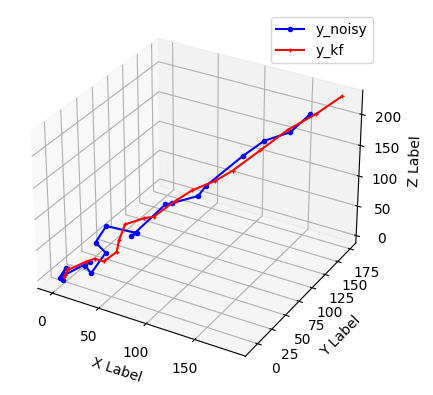
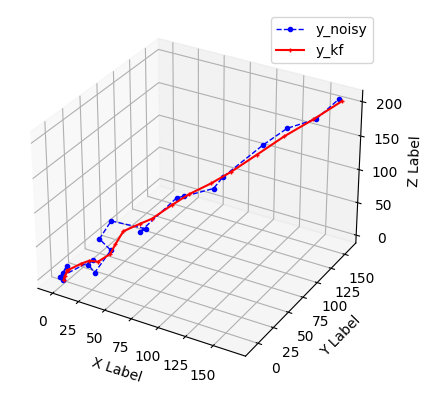
finished hw6

diff --git a/hw6/q2.py b/hw6/q2.py
@@ -5,7 +5,7 @@
 import numpy as np
 import matplotlib.pyplot as plt
 # ------------------------------------------------------------------------------
-np.set_printoptions(suppress=True)
+np.set_printoptions(suppress=True, precision=5)
 
 # ------------------------------------------------------------------------------
 # q2.c
@@ -19,7 +19,7 @@ dt = 1
 M = 0.01
 u = 0.01 * np.ones(shape=(3, 1), dtype=np.float32)
 P0 = np.diag([50, 50, 50, 10, 10, 10])
-Rv = 10e-5 * np.diag([1, 1, 1])
+Rv = 1e-5 * np.diag([1, 1, 1])
 Rw = 50 * np.diag([1, 1, 1])
 print(f"\n*** Parameters:")
 print(f"dt: {dt}\nM: {M}\nu:\n{u}\nP0:\n{P0}\nRv:\n{Rv}\nRw:\n{Rw}")
@@ -27,56 +27,113 @@ print(f"dt: {dt}\nM: {M}\nu:\n{u}\nP0:\n{P0}\nRv:\n{Rv}\nRw:\n{Rw}")
 print("\n*** State Space Representation:")
 A = np.identity(6, dtype=np.float32)
 A[0, 3] = A[1, 4] = A[2, 5] = dt
+
 B = np.zeros(shape=(6, 3), dtype=np.float32)
+B[0, 0] = B[1, 1] = B[2, 2] = 0.5 * dt/M
 B[3, 0] = B[4, 1] = B[5, 2] = dt/M
+
 C = np.zeros(shape=(3, 6), dtype=np.float32)
 C[0, 0] = C[1, 1] = C[2, 2] = 1
 print(f"A:\n{A}\nB:\n{B}\nC:\n{C}")
 
 # kalman filter 
 print("\n*** Kalman filter:")
-P_list = np.zeros(shape=(len(ydata)+1, 6, 6))
-P_list[0, :, :] = P0
+# initial covariance
+Pprior = np.zeros(shape=(len(ydata)+1, 6, 6))
+Pprior[0, :, :] = P0
+
+Ppost = np.zeros(shape=(len(ydata)+1, 6, 6))
+Ppost[0, :, :] = P0
+
+# initial state
 x = np.zeros(shape=(6, 1), dtype=np.float32)
-x_list = np.zeros(shape=(len(ydata)+1, 6, 1))
-x_list[0, :, :] = x
+x[0] = ydata[0, 0]
+x[1] = ydata[0, 1]
+x[2] = ydata[0, 2]
+
+Xprior = np.zeros(shape=(len(ydata)+1, 6, 1))
+Xprior[0, :, :] = x
+
+Xpost = np.zeros(shape=(len(ydata)+1, 6, 1))
+Xpost[0, :, :] = x
 
 y_kf = np.zeros(shape=ydata.shape, dtype=np.float32)
-for i, ym in enumerate(ydata):
-    P = P_list[i]
-    print(f"\nym[{i}]: {ym}")
-    # compute observer gain L -- AM p. 215
-    # L = A P_k C^{T} (R_w + C P_k C^{T})^{-1}
-    L = A @ P @ C.T @ np.linalg.inv((Rw + C @ P @ C.T))
-    print(f"observer gain L:\n{L}")
-    # compute new covariance matrix P -- AM p. 215
-    # P = (A - LC) P_k (A - LC)^{T} + F R_v F^{T} + L R_w L^{T}
-    # here F = B
-    A_LC = A - L @ C
-    P = A_LC @ P @ A_LC.T + B @ Rv @ B.T + L @ Rw @ L.T
-    P_list[i+1] = P
-    print(f"covariance matrix P:\n{P}")
-    # compute new x as a Luenberger observer
-    # x = Ax^ + Bu + L(y - Cx^)
-    # diff between observer prediction and measured output
-    ym = ym.reshape(3, 1)
-    err = ym - C @ x
-    diff = L @ (err) 
+I = np.identity(6)
+
+luenberger = False
     
-    # estimate state
-    x = A @ x + B @ u + diff
-    x_list[i+1] = x
-    print(f"x[{i}]:\n{x}")
-    y_kf[i, :] = (C @ x).reshape(3)
-    print(f"y[{i}]:\n{C @ x}")
-    
-    print(f"err:\n{err}")
+if luenberger:
+    P_list = np.zeros(shape=(len(ydata)+1, 6, 6))
+    P_list[0, :, :] = P0
+   
+    x_list = np.zeros(shape=(len(ydata)+1, 6, 1))
+    x_list[0, :, :] = x
+
+    y_kf = np.zeros(shape=ydata.shape, dtype=np.float32)
+    for i, ym in enumerate(ydata):
+        P = P_list[i]
+        print(f"\nym[{i}]: {ym}")
+        # compute observer gain L -- AM p. 215
+        # L = A P_k C^{T} (R_w + C P_k C^{T})^{-1}
+        L = A @ P @ C.T @ np.linalg.inv((Rw + C @ P @ C.T))
+        print(f"observer gain L:\n{L}")
+        # compute new covariance matrix P -- AM p. 215
+        # P = (A - LC) P_k (A - LC)^{T} + F R_v F^{T} + L R_w L^{T}
+        # here F = B
+        A_LC = A - L @ C
+        P = A_LC @ P @ A_LC.T + B @ Rv @ B.T + L @ Rw @ L.T
+        P_list[i+1] = P
+        print(f"covariance matrix P:\n{P}")
+        # compute new x as a Luenberger observer
+        # x = Ax^ + Bu + L(y - Cx^)
+        # diff between observer prediction and measured output
+        ym = ym.reshape(3, 1)
+        err = ym - C @ x
+        diff = L @ (err) 
+        
+        # estimate state
+        x = A @ x + B @ u + diff
+        x_list[i+1] = x
+        print(f"x[{i}]:\n{x}")
+        y_kf[i, :] = (C @ x).reshape(3)
+        print(f"y[{i}]:\n{C @ x}")
+        
+        print(f"err:\n{err}")
+else:
+    for k, ym in enumerate(ydata):
+        print(f"\n\n*** step[{k+1}/{len(ydata)}]")
+        print(f"* y_m:\n{ym}")
+        
+        # priors state
+        Xprior[k+1] = A @ Xpost[k] + B @ u
+        print(f"* x_prior:\n{Xprior[k+1].T}")
+        
+        # prior covariance
+        Pprior[k+1] = A @ Ppost[k] @ A.T + B @ Rv @ B.T 
+        print(f"* P_prior:\n{Pprior[k+1]}")
+        
+        # kalman gain
+        K = Pprior[k+1] @ C.T @ np.linalg.inv(C @ Pprior[k+1] @ C.T + Rw)
+        print(f"* K\n{K}")
+        
+        # posterior state
+        ym = ym.reshape(3, 1)
+        Xpost[k+1] = Xprior[k+1] + K @ (ym - C @ Xprior[k+1])
+        print(f"* x_post:\n{Xpost[k+1].T}")
+        print(f"* err:\n{(ym - C @ Xprior[k+1]).T}")
+        
+        # posterior covariance
+        Ppost[k+1] = (I - K @ C) @ Pprior[k+1] 
+        print(f"* P_post:\n{Ppost[k+1]}")
+        
+        y_kf[k, :] = (C @ Xpost[k+1]).reshape(3)
+        print(f"* y_kf:\n{y_kf[k]}")
 
 fig = plt.figure()
 ax = fig.add_subplot(projection='3d')
 t = np.arange(0, len(ydata), step=1)
-ax.plot3D(ydata[:, 0], ydata[:, 1], ydata[:, 2], 
-          marker='o', markersize=3, color='blue', label='y_noisy')
+ax.plot3D(ydata[:, 0], ydata[:, 1], ydata[:, 2], marker='o', markersize=3, 
+          linestyle='dashed', linewidth=1, color='blue', label='y_noisy')
 ax.plot3D(y_kf[:, 0], y_kf[:, 1], y_kf[:, 2], 
           marker='+', markersize=3, color='red', label='y_kf')
 ax.legend()
@@ -87,33 +144,43 @@ plt.savefig("kalman_filter.png", bbox_inches='tight')
 plt.show()
 plt.close()
 
+    
 # ------------------------------------------------------------------------------
 # q2.d
 print("\n#", "-"*50)
 print("q2 d) Rauch-Tung-Striebel smoother")
 
-k = len(P_list) - 2
+Ps = Ppost
+Xs = Xpost
+
+k = len(Ps) - 2
 y_rts = np.zeros_like(ydata)
-while k > 0:
+while k >= 0:
+    print(f"\n\n*** step[{k+1}/{len(Ps)}]")
     # equations to compute 
     #   k < n
     #   x_{k|n} = x_{k|k} + C_{k} (x_{k+1|n} - x_{k+1|k})
     #   P_{k|n} = P_{k|k} + C_{k} (P_{k+1|n} - P_{k+1|k}) C_{k}^{T}
     #     C_{k} = P_{k|k} B^{T} P_{k+1|k}^{-1}
     # compute c
-    Ck = P_list[k-1] @ A.T @ np.linalg.inv(P_list[k])
-    P_list[k+1] = P_list[k-1] + Ck @ (P_list[k+1] - P_list[k]) @ Ck.T
-    x_list[k+1] = x_list[k-1] + Ck @ (x_list[k+1] - x_list[k])
-    y_rts[k] = (C @ x_list[k+1]).reshape(3)
+    Ck = Ppost[k] @ A.T @ np.linalg.inv(Pprior[k+1])
+    
+    Xs[k] = Xpost[k] + Ck @ (Xs[k+1] - Xprior[k+1])
+    print(f"* xs:\n{Xs[k].T}")
+    
+    Ps[k] = Ppost[k] + Ck @ (Ps[k+1] - Pprior[k+1]) @ Ck.T
+    print(f"* Ps:\n{Ps[k]}")
+    
+    y_rts[k] = (C @ Xs[k]).reshape(3)
     k -= 1
 
 fig = plt.figure()
 ax = fig.add_subplot(projection='3d')
 t = np.arange(0, len(ydata), step=1)
-ax.plot3D(ydata[:, 0], ydata[:, 1], ydata[:, 2], 
-          marker='o', markersize=3, color='blue', label='y_noisy')
-ax.plot3D(y_kf[:, 0], y_kf[:, 1], y_kf[:, 2], 
-          marker='+', markersize=3, color='red', label='y_kf')
+ax.plot3D(ydata[:, 0], ydata[:, 1], ydata[:, 2], marker='o', markersize=3, 
+          linestyle='dashed', linewidth=1, color='blue', label='y_noisy')
+ax.plot3D(y_kf[:, 0], y_kf[:, 1], y_kf[:, 2], marker='+', markersize=3, 
+          linewidth=1, color='red', label='y_kf')
 ax.plot3D(y_rts[:, 0], y_rts[:, 1], y_rts[:, 2], 
           marker='v', markersize=3, color='green', label='y_rts')
 ax.legend()
